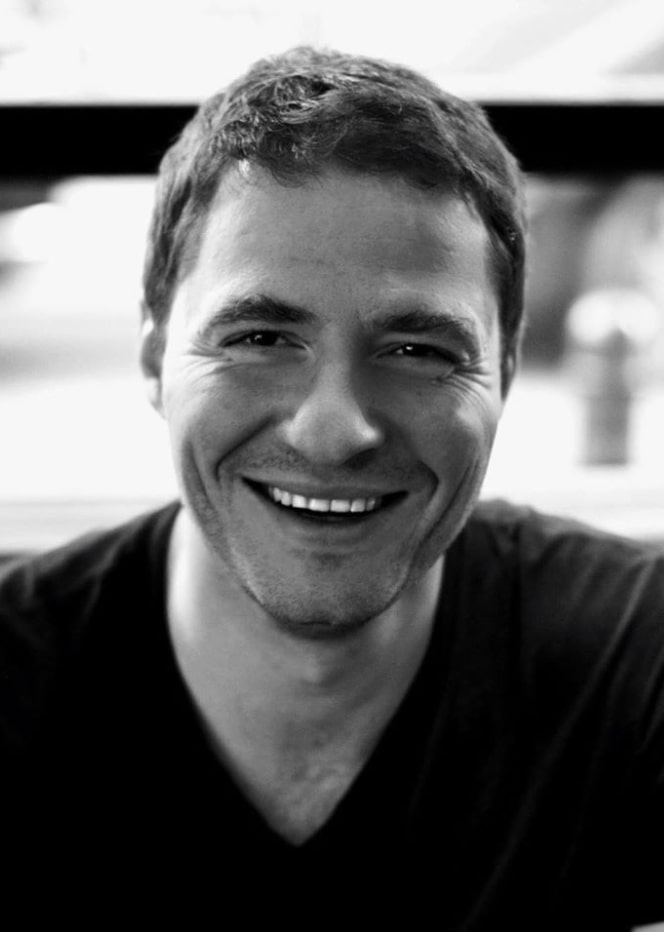
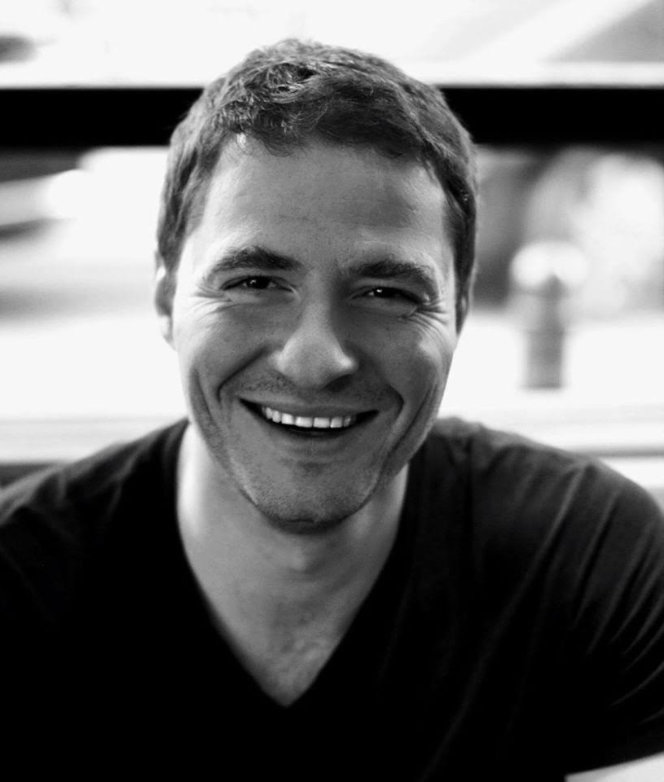
update onclick inline html javscripts (added to events js file), fixed image

diff --git a/src/index.html b/src/index.html
@@ -450,11 +450,9 @@
 
             <ul class="program-nav">
                 <li><a href="javascript:void(0)" data-tab="1" id="tab1-top"
-                       onClick="$('#tab1-bottom').addClass('active');$('#tab2-bottom').removeClass('active');"
                        class="active">Dopolední blok</a></li>
 
                 <li><a href="javascript:void(0)" id="tab2-top"
-                       onClick="$('#tab2-bottom').addClass('active');$('#tab1-bottom').removeClass('active');"
                        data-tab="2">Odpolední blok</a></li>
             </ul>
 
@@ -605,13 +603,8 @@
             </div>
 
             <ul class="program-nav2">
-                <li><a href="javascript:void(0)" id="tab1-bottom" class="active"
-                       onClick="$('#tab1-top').trigger('click');var position = $('#program').position();window.scrollTo(0,position.top - $('#main-header').height());">Dopolední
-                    blok</a></li><!--
-    -->
-                <li><a href="javascript:void(0)" id="tab2-bottom"
-                       onClick="$('#tab2-top').trigger('click');var position = $('#program').position();window.scrollTo(0,position.top - $('#main-header').height());">Odpolední
-                    blok</a></li>
+                <li><a href="javascript:void(0)" id="tab1-bottom" class="active">Dopolední blok</a></li>
+                <li><a href="javascript:void(0)" id="tab2-bottom">Odpolední blok</a></li>
             </ul>
 
         </div>

diff --git a/src/scripts/events.js b/src/scripts/events.js
@@ -1,0 +1,25 @@
+import $ from 'jquery'
+
+$(function () {
+    $('#tab1-top').click(function () {
+        $('#tab1-bottom').addClass('active')
+        $('#tab2-bottom').removeClass('active')
+    })
+
+    $('#tab2-top').click(function () {
+        $('#tab2-bottom').addClass('active')
+        $('#tab1-bottom').removeClass('active')
+    })
+
+    $('#tab1-bottom').click(function () {
+        $('#tab1-top').trigger('click')
+        let position = $('#program').position()
+        window.scrollTo(0, position.top - $('#main-header').height())
+    })
+
+    $('#tab2-bottom').click(function () {
+        $('#tab2-top').trigger('click')
+        let position = $('#program').position()
+        window.scrollTo(0, position.top - $('#main-header').height())
+    })
+})

diff --git a/src/scripts/scripts.js b/src/scripts/scripts.js
@@ -3,6 +3,7 @@ import './polyfill-ie11'
 import $ from 'jquery'
 import jQuery from 'jquery'
 import lozad from 'lozad'
+import './events'
 
 const observer = lozad(); // lazy loads elements with default selector as '.lozad'
 observer.observe();
